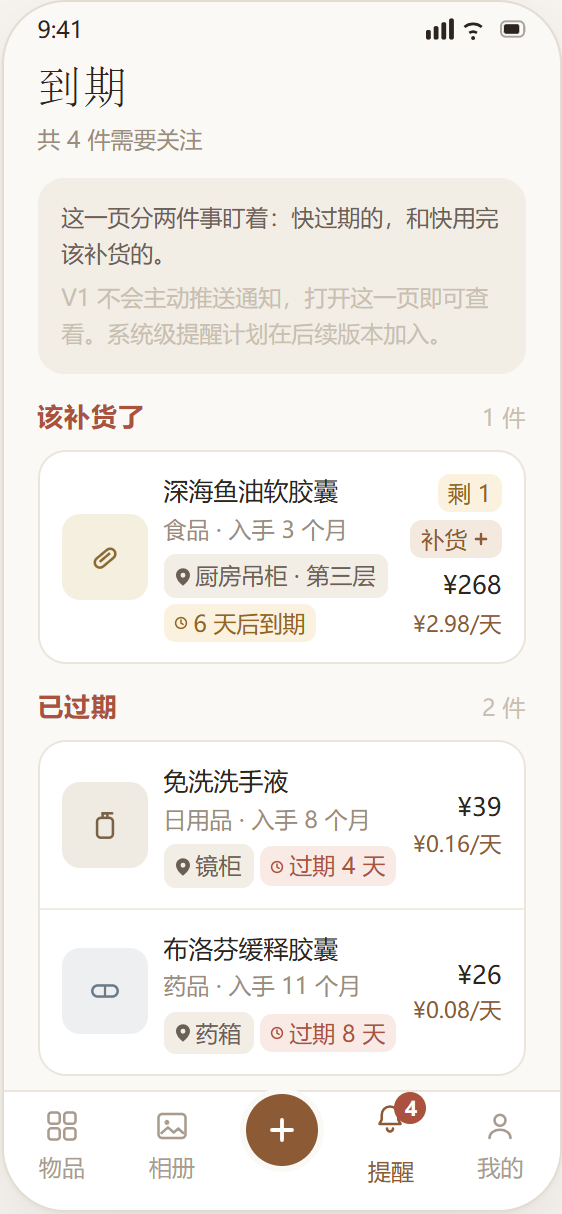
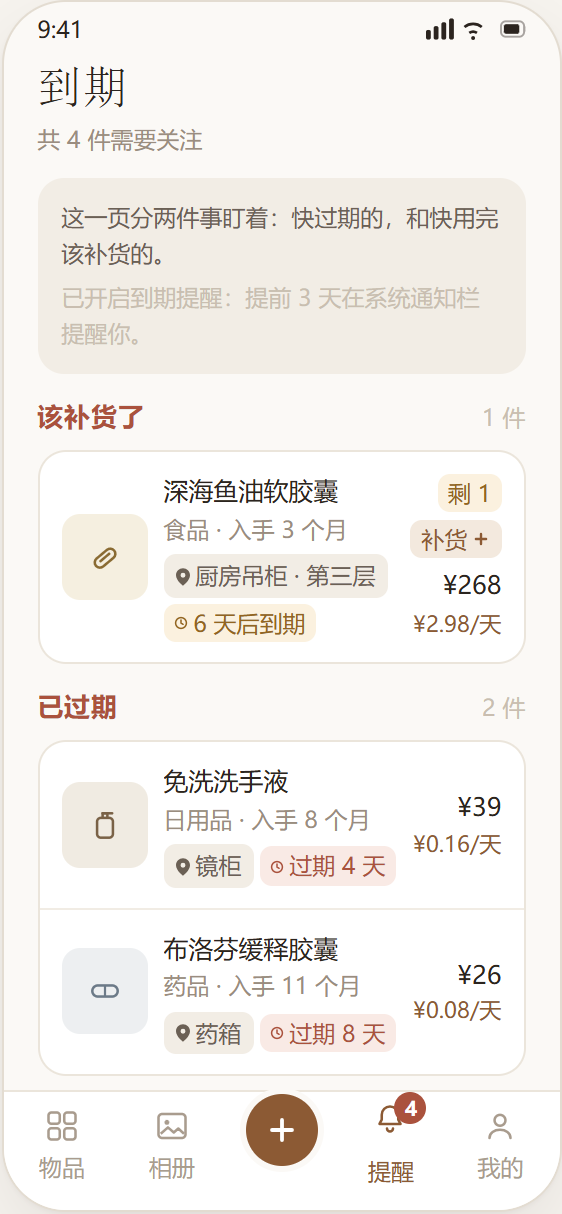
docs(screens): 界面稿补到 19 屏（录入页两枚入口 + 我的 · 批量识图）
v2.2.0 那批发版漏提交的界面稿，这一轮补上。

- 页眉 v2.1.4 → v2.2.0，屏数 17 → 19；
- 录入页右上角补上语音与批量识图两枚按钮，并写明它们**长在页头、不长在
  表单的图片条里** —— 图片条的语义是「当前这一件配图」，批量不属任何一件；
- 新增第 18 屏「我的」、第 19 屏「批量识图」（含清单行的样式与那条
  「行内不挂整页级 ItemForm」的取舍注释）；
- 03-compose / 07-expiry 两张截图随界面变动重出，另补 18 / 19 两张。

未改任何 App 代码，纯文档。

Changed region(s): [[0.0907, 0.2133, 0.8772, 0.3048]]

diff --git a/docs/screens.html b/docs/screens.html
@@ -107,6 +107,22 @@ p.small{font-size:15px;color:var(--ink2)}
 /* 行尾那一列：胶囊在上、价格与日均成本仍在下，价格一个像素都没挪 */
 .ph .tailR{display:flex;flex-direction:column;align-items:flex-end;gap:2px;flex:0 0 auto}
 /* 「补货 +」小钮：**只在到期页那一组出现**，首页列表行上没有它 */
+/* 19 屏「批量识图」的清单行：勾选 + 缩略图 + 名称/分类·位置/状态 + 两个行内动作。
+   ★ 行内**不挂整页级 ItemForm** —— 一行即一屏高，清单就做不到「一屏扫过 N 条」，
+   而且清单会随进度重渲染重挂行、把用户刚改的名字冲回识别初稿（与 StockSheet 同一条教训）。
+   逐条要深改的走「详细编辑」跳独立页。 */
+.ph .br{display:flex;gap:8px;padding:8px 11px;align-items:flex-start;border-bottom:0.5px solid #F1ECE4}
+.ph .br:last-child{border-bottom:0}
+.ph .br .ck{flex:0 0 auto;margin-top:1px}
+.ph .br .bt{width:38px;height:38px;border-radius:9px;flex:0 0 auto;background:#F5EFE0;display:flex;align-items:center;justify-content:center}
+.ph .br .bb{flex:1;min-width:0}
+.ph .br .bn{font-weight:500;font-size:12.5px;white-space:nowrap;overflow:hidden;text-overflow:ellipsis}
+/* ★ 修饰类名别叫 .ph —— 那是手机框本身的选择器，撞上就是把这一行撑成整屏高（本项目已踩） */
+.ph .br .bn.empty{color:#C9BEB0;font-weight:400}
+.ph .br .bm{margin-top:1px;color:#9A8D80;white-space:nowrap;overflow:hidden;text-overflow:ellipsis}
+.ph .br .bs{margin-top:2px;font-size:10.5px;color:#9A8D80;display:flex;align-items:center;gap:6px}
+.ph .br .ba{display:flex;flex-direction:column;gap:7px;flex:0 0 auto;padding-top:3px}
+.ph .bchip{display:inline-flex;align-items:center;background:#F2EDE5;border-radius:8px;padding:4px 9px;color:#6B6055}
 .ph .rst{display:inline-flex;align-items:center;gap:2px;background:var(--brand-bg);border-radius:6px;padding:1px 6px;color:var(--brand)}
 /* 底部快捷面板（Modal 滑出）：遮罩压住整屏，面板贴底 */
 .ph .scrim{position:absolute;left:0;right:0;top:0;bottom:0;background:rgba(43,36,31,.42)}
@@ -144,11 +160,11 @@ footer{margin-top:80px;padding-top:28px;border-top:1px solid var(--line);font-fa
 <div class="wrap">
 
 <header class="cover">
-  <div class="eyebrow">收纳柜 App &middot; 界面设计 &middot; v2.1.4</div>
+  <div class="eyebrow">收纳柜 App &middot; 界面设计 &middot; v2.2.0</div>
   <h1>格物</h1>
   <p class="lede">东西放在哪，你记得，它也记得。一套以「位置」为骨架、以「持有成本」为情绪回报的本地收纳记录工具。</p>
   <div class="meta">
-    <span>17 屏</span>
+    <span>19 屏</span>
     <span>六套浅色 + 系统深色自动接管</span>
     <span>暖棕纸感 &middot; 衬线叙述</span>
     <span>Android &middot; 纯本地</span>
@@ -181,14 +197,14 @@ footer{margin-top:80px;padding-top:28px;border-top:1px solid var(--line);font-fa
       <tr><td>关键数字</td><td><span class="t-num">&#165;24.4</span></td><td class="spec">无衬线 30 / 500 &middot; 等宽</td></tr>
     </tbody>
   </table>
-  <p class="small" style="margin-top:14px">上表是 App 里的<b>真实</b>字号（对应 <code>Type</code> 令牌表）。下面十五屏的手机稿框固定 280px 宽，而真机常见 393dp，所以屏内文字按约 0.8 倍收细画 —— 直接用真字号，品名会在更窄的框里折成两行。两边不一致时，以这张表为准。</p>
+  <p class="small" style="margin-top:14px">上表是 App 里的<b>真实</b>字号（对应 <code>Type</code> 令牌表）。下面这些手机稿框固定 280px 宽，而真机常见 393dp，所以屏内文字按约 0.8 倍收细画 —— 直接用真字号，品名会在更窄的框里折成两行。两边不一致时，以这张表为准。</p>
 </section>
 
 <section>
   <div class="sec-head">
     <span class="sec-num">02</span>
     <h2>界面</h2>
-    <span class="note">十七屏 &middot; 前十屏按使用动线排列，后七屏是库存、AI 与统计功能的新界面</span>
+    <span class="note">十九屏 &middot; 前十屏按使用动线排列，后九屏是库存、AI、统计、提醒与批量录入的新界面</span>
   </div>
 
   <div class="screens">
@@ -343,9 +359,18 @@ footer{margin-top:80px;padding-top:28px;border-top:1px solid var(--line);font-fa
     <figure class="fig" data-slug="compose">
       <div class="shot"><div class="ph">
         <div class="sb"><span style="font-weight:500">9:41</span><svg width="50" height="11" viewBox="0 0 52 11" fill="none"><rect x="0" y="6" width="2.5" height="5" rx="1" fill="#2B241F"/><rect x="4" y="4" width="2.5" height="7" rx="1" fill="#2B241F"/><rect x="8" y="2" width="2.5" height="9" rx="1" fill="#2B241F"/><rect x="12" y="0" width="2.5" height="11" rx="1" fill="#2B241F"/><path d="M20 4.5a7 7 0 0 1 9 0" stroke="#2B241F" stroke-width="1.4" fill="none"/><path d="M22.5 7.5a3.5 3.5 0 0 1 4 0" stroke="#2B241F" stroke-width="1.4" fill="none"/><circle cx="24.5" cy="10.2" r="1" fill="#2B241F"/><rect x="39" y="1.5" width="12" height="8" rx="2.5" stroke="#2B241F" stroke-opacity=".4" fill="none"/><rect x="40.5" y="3" width="8" height="5" rx="1.2" fill="#2B241F"/><rect x="51.8" y="4" width="1.4" height="3" rx=".7" fill="#2B241F" fill-opacity=".4"/></svg></div>
-        <div style="padding:2px 17px 0;flex:0 0 auto">
-          <div class="hd">录入</div>
-          <div style="color:#9A8D80;margin-top:3px">每件东西只敲一个名字就能存</div>
+        <!-- ★ 右上角这两枚是 v2.2.0 加进来的：语音（说一句录一件）与批量识图（选一堆录一堆）。
+             它们长在页头、不长在表单的图片条里 —— 前者的语义是「当前这一件配图」，
+             批量不属任何一件。判据与语音同两道门：支持者档 + AI 总开关。 -->
+        <div style="padding:2px 17px 0;flex:0 0 auto;display:flex;align-items:flex-start;justify-content:space-between">
+          <div>
+            <div class="hd">录入</div>
+            <div style="color:#9A8D80;margin-top:3px">每件东西只敲一个名字就能存</div>
+          </div>
+          <div style="display:flex;gap:7px;padding-top:1px">
+            <div style="width:26px;height:26px;border-radius:9px;border:0.5px solid #EBE5DB;background:#fff;display:flex;align-items:center;justify-content:center"><svg width="14" height="14" viewBox="0 0 24 24" fill="none"><rect x="9" y="2.5" width="6" height="11" rx="3" stroke="#8C5A34" stroke-width="1.7"/><path d="M5.5 11.5a6.5 6.5 0 0 0 13 0M12 18v3.5" stroke="#8C5A34" stroke-width="1.7" stroke-linecap="round"/></svg></div>
+            <div style="width:26px;height:26px;border-radius:9px;border:0.5px solid #EBE5DB;background:#fff;display:flex;align-items:center;justify-content:center"><svg width="14" height="14" viewBox="0 0 24 24" fill="none"><path d="M12 3.2l8.8 4.6-8.8 4.6-8.8-4.6z" stroke="#8C5A34" stroke-width="1.7" stroke-linejoin="round"/><path d="M3.4 12.5l8.6 4.5 8.6-4.5M3.4 16.8l8.6 4.5 8.6-4.5" stroke="#8C5A34" stroke-width="1.6" stroke-linejoin="round"/></svg></div>
+          </div>
         </div>
         <div style="margin:11px 17px 0;flex:0 0 auto">
           <div style="color:#9A8D80;margin-bottom:4px">照片（0）</div>
@@ -599,11 +624,12 @@ footer{margin-top:80px;padding-top:28px;border-top:1px solid var(--line);font-fa
           <div class="hd">到期</div>
           <div style="color:#9A8D80;margin-top:3px">共 4 件需要关注</div>
         </div>
-        <!-- 顶部这条浅底说明卡现在说两件事：这一页盯什么、以及 V1 不做推送。
-             后者必须在（不写清楚，用户会以为提醒坏了） -->
+        <!-- 顶部这条浅底说明卡现在说两件事：这一页盯什么、以及系统提醒此刻是开是关。
+             ★ 第二句必须**跟着开关走**（四态各说一句）——
+             还写着「计划在后续版本加入」就是骗人（v2.2.0 已上）。 -->
         <div style="margin:11px 17px 0;background:#F2EDE5;border-radius:13px;padding:11px 12px;flex:0 0 auto">
           <div style="color:#6B6055;line-height:18px">这一页分两件事盯着：快过期的，和快用完该补货的。</div>
-          <div style="color:#C9BEB0;line-height:18px;margin-top:4px">V1 不会主动推送通知，打开这一页即可查看。系统级提醒计划在后续版本加入。</div>
+          <div style="color:#C9BEB0;line-height:18px;margin-top:4px">已开启到期提醒：提前 3 天在系统通知栏提醒你。</div>
         </div>
 
         <!-- ★ 库存那一组排在最前：「能补货」是可以此刻顺手补一件的，比「还有二十天到期」紧急。
@@ -743,7 +769,7 @@ footer{margin-top:80px;padding-top:28px;border-top:1px solid var(--line);font-fa
           <div class="tb on"><svg width="18" height="18" viewBox="0 0 24 24" fill="none"><circle cx="12" cy="8.2" r="3.6" stroke="#8C5A34" stroke-width="1.7"/><path d="M5 20c0-3.5 3.2-5.5 7-5.5s7 2 7 5.5" stroke="#8C5A34" stroke-width="1.7" stroke-linecap="round"/></svg><span>我的</span></div>
         </div>
       </div></div>
-      <figcaption><div class="no">08</div><div class="nm">我的 &middot; 数据与备份</div><div class="ds">备份状态置顶、单独用品牌浅底，按钮占满整行 —— 纯本地方案里这是唯一的救命绳，混进设置行就会被当成一条普通设置。四个出口（生成备份包 / 导出 CSV 清单 / 导入备份 / 清理本地备份包）收在一组，「整理」放柜子与格位、分类管理、封面图源、回收站四条 —— 位置和分类是同一类事，得挨着。<b>自动备份的状态刻意单独一行、不并进上面那张卡</b>：手动那份的包离开了这台手机才算防丢，自动那份只是本机缓存里的回滚副本，两者混在一起，用户会把「已经自动备过了」当成安全。清理入口只在本机确实有包时出现，新装用户看到一行「暂无」只是噪声。这屏画的是首屏，再往下还有「外观」（主题入口 + 五枚色点）与「关于」两组，主题弹层见 09。</div></figcaption>
+      <figcaption><div class="no">08</div><div class="nm">我的 &middot; 数据与备份</div><div class="ds">备份状态置顶、单独用品牌浅底，按钮占满整行 —— 纯本地方案里这是唯一的救命绳，混进设置行就会被当成一条普通设置。四个出口（生成备份包 / 导出 CSV 清单 / 导入备份 / 清理本地备份包）收在一组，「整理」放柜子与格位、分类管理、封面图源、回收站四条 —— 位置和分类是同一类事，得挨着。<b>自动备份的状态刻意单独一行、不并进上面那张卡</b>：手动那份的包离开了这台手机才算防丢，自动那份只是本机缓存里的回滚副本，两者混在一起，用户会把「已经自动备过了」当成安全。清理入口只在本机确实有包时出现，新装用户看到一行「暂无」只是噪声。这屏画的是首屏，再往下还有「提醒」（见 18 屏）、「外观」（主题入口 + 七枚色点）与「关于」三组，主题弹层见 09。</div></figcaption>
     </figure>
 
     <!-- 09 -->
@@ -1301,6 +1327,175 @@ footer{margin-top:80px;padding-top:28px;border-top:1px solid var(--line);font-fa
       <figcaption><div class="no">17</div><div class="nm">录入 &middot; 识物跑完之后</div><div class="ds">拍一张包装，回来看到的就是这一屏：名称、分类、价格、过期时间都已经填好，行尾挂着一枚「AI」标。<b>保存前你把关就行</b> —— 三十秒的敲字变成三秒。<br>★ <b>识物不另开一页。</b>它与语音走的是同一条路：结果回填「手动录入那张表」（见 15 屏）。这是刻意的 —— 另画一页就要在两边各答一遍「识物能填哪些字段」，然后必然有一边答歪；回填同一张表，表单加字段时两条路自动跟上。<br>「AI」标是<b>可改的</b>：用户一动某一行，那一行的标就摘掉 —— 标的意思是「这是机器填的、还没经过你」，不是「这一行属于 AI」。过期时间那行挂的是中性标「按分类默认」而不是 AI 标：它不是模型看出来的，是按分类的保质期规则算的。<b>哪一项是谁填的，界面照实说。</b><br>照片那一格是识别用的那张原图（已落进沙盒）；「添加」仍只走本机相册。旁边那行小字是唯一会被追问的事：<b>上传的只是长边 ≤1024px、JPEG 质量 0.8 的压缩副本</b>，原图与物品数据不出手机。<br>底部那句「识别只是预填，保存前你说了算」不能省 —— 上一版没有它，用户以为点了识物就直接入库了。提示的位置也比措辞重要：上一版把「缺 Key / 没开开关」的提示放在表单最底部，而识物按钮在页面顶部，<b>提示一直都在、只是没人会滚到底去看见它</b>，观感就是「点了没反应」。</div></figcaption>
     </figure>
 
+    <!-- 18 -->
+    <figure class="fig" data-slug="mine-notify">
+      <div class="shot"><div class="ph">
+        <div class="sb"><span style="font-weight:500">9:41</span><svg width="50" height="11" viewBox="0 0 52 11" fill="none"><rect x="0" y="6" width="2.5" height="5" rx="1" fill="#2B241F"/><rect x="4" y="4" width="2.5" height="7" rx="1" fill="#2B241F"/><rect x="8" y="2" width="2.5" height="9" rx="1" fill="#2B241F"/><rect x="12" y="0" width="2.5" height="11" rx="1" fill="#2B241F"/><path d="M20 4.5a7 7 0 0 1 9 0" stroke="#2B241F" stroke-width="1.4" fill="none"/><path d="M22.5 7.5a3.5 3.5 0 0 1 4 0" stroke="#2B241F" stroke-width="1.4" fill="none"/><circle cx="24.5" cy="10.2" r="1" fill="#2B241F"/><rect x="39" y="1.5" width="12" height="8" rx="2.5" stroke="#2B241F" stroke-opacity=".4" fill="none"/><rect x="40.5" y="3" width="8" height="5" rx="1.2" fill="#2B241F"/><rect x="51.8" y="4" width="1.4" height="3" rx=".7" fill="#2B241F" fill-opacity=".4"/></svg></div>
+        <div style="padding:2px 17px 0;flex:0 0 auto">
+          <div class="hd">我的</div>
+          <div style="color:#9A8D80;margin-top:3px">数据都在这台手机里，请留意备份</div>
+        </div>
+
+        <!-- 提醒：v2.2.0 新加的独立一张卡，不并进「整理」——
+             它是同一件事的几个旋钮（要不要提醒 / 提前几天 / 要不要角标数字 / 通不通），
+             混进「整理」会让那张卡变成「什么都有一点」的抽屉。
+             ★ 开关画的是实现里的真色：ON 时轨道是品牌浅底、滑块是品牌色（不是常见的一整条品牌实底） -->
+        <div style="margin:11px 17px 0;flex:0 0 auto">
+          <div style="color:#9A8D80;margin-bottom:4px">提醒</div>
+          <div style="background:#fff;border:0.5px solid #EBE5DB;border-radius:14px;overflow:hidden">
+            <div class="fr" style="padding:11px">
+              <div style="flex:1;min-width:0">
+                <div style="color:#6B6055">到期提醒</div>
+                <div style="color:#C9BEB0;margin-top:2px;line-height:16px">已排 3 条 &middot; 最近一条 09-27</div>
+              </div>
+              <div style="width:36px;height:21px;border-radius:11px;background:#F3E9DE;flex:0 0 auto;display:flex;align-items:center;justify-content:flex-end;padding:2px"><div style="width:17px;height:17px;border-radius:50%;background:#8C5A34"></div></div>
+            </div>
+            <!-- 角标是**独立**的一个开关，与通知开关不联动，也不藏在它开着的前提下：
+                 角标答的是「有几件事要去看」，通知答的是「到点提醒你」。 -->
+            <div class="fr" style="padding:11px">
+              <div style="flex:1;min-width:0">
+                <div style="color:#6B6055">角标数字</div>
+                <div style="color:#C9BEB0;margin-top:2px;line-height:16px">「提醒」标签上显示待办件数；关掉只是不显示数字，点进去照样能看</div>
+              </div>
+              <div style="width:36px;height:21px;border-radius:11px;background:#F3E9DE;flex:0 0 auto;display:flex;align-items:center;justify-content:flex-end;padding:2px"><div style="width:17px;height:17px;border-radius:50%;background:#8C5A34"></div></div>
+            </div>
+            <!-- 「提前几天」只在**真的会响**时才给：关着摆一排按钮，用户会以为点了就生效。
+                 自己填天数的入口放在标签行右端，不跟四枚 chip 抢那一行 ——
+                 五个控件并排会在 320dp 屏或放大字体下顶出卡片，而挤出去不报错。 -->
+            <div class="fr" style="padding:11px;display:block">
+              <div style="display:flex;align-items:baseline;justify-content:space-between">
+                <span style="color:#6B6055">提前几天提醒</span>
+                <span style="color:#8C5A34">自定义</span>
+              </div>
+              <div style="display:flex;background:#F2EDE5;border-radius:10px;padding:2px;margin-top:6px">
+                <span style="flex:1;text-align:center;padding:5px 0;border-radius:8px;color:#9A8D80">当天</span>
+                <span style="flex:1;text-align:center;padding:5px 0;border-radius:8px;color:#9A8D80">1 天</span>
+                <span style="flex:1;text-align:center;padding:5px 0;border-radius:8px;background:#fff;font-weight:500">3 天</span>
+                <span style="flex:1;text-align:center;padding:5px 0;border-radius:8px;color:#9A8D80">7 天</span>
+              </div>
+            </div>
+            <div class="fr" style="padding:11px">
+              <span style="color:#6B6055">试发一条</span>
+              <span style="color:#9A8D80;font-weight:500">看看通不通 &nbsp;&#8250;</span>
+            </div>
+          </div>
+          <div style="color:#C9BEB0;margin:5px 0 0 5px;line-height:16px">提醒时刻 =（到期日 &minus; 提前几天）当天上午 9:00</div>
+        </div>
+
+        <!-- 外观：这一屏画到主题入口为止，弹层见 09 -->
+        <div style="margin:11px 17px 0;flex:0 0 auto">
+          <div style="color:#9A8D80;margin-bottom:4px">外观</div>
+          <div style="background:#fff;border:0.5px solid #EBE5DB;border-radius:14px;overflow:hidden;padding-bottom:9px">
+            <div class="fr" style="padding:11px"><span style="color:#6B6055">外观主题</span><span style="color:#8C5A34;font-weight:500">素笺 &nbsp;&#8250;</span></div>
+            <div style="display:flex;justify-content:space-between;align-items:center;padding:2px 12px 0">
+              <span style="width:24px;height:24px;border-radius:50%;border:1.5px solid #2B241F;display:flex;align-items:center;justify-content:center;padding:3px;flex:0 0 auto"><span style="width:100%;height:100%;border-radius:50%;background:#8C5A34;display:block"></span></span>
+              <span style="width:24px;height:24px;border-radius:50%;border:1.5px solid transparent;display:flex;align-items:center;justify-content:center;padding:3px;flex:0 0 auto"><span style="width:100%;height:100%;border-radius:50%;background:#2C5282;display:block"></span></span>
+              <span style="width:24px;height:24px;border-radius:50%;border:1.5px solid transparent;display:flex;align-items:center;justify-content:center;padding:3px;flex:0 0 auto"><span style="width:100%;height:100%;border-radius:50%;background:#35605A;display:block"></span></span>
+              <span style="width:24px;height:24px;border-radius:50%;border:1.5px solid transparent;display:flex;align-items:center;justify-content:center;padding:3px;flex:0 0 auto"><span style="width:100%;height:100%;border-radius:50%;background:#A8372C;display:block"></span></span>
+              <span style="width:24px;height:24px;border-radius:50%;border:1.5px solid transparent;display:flex;align-items:center;justify-content:center;padding:3px;flex:0 0 auto"><span style="width:100%;height:100%;border-radius:50%;background:#6A4C86;display:block"></span></span>
+              <span style="width:24px;height:24px;border-radius:50%;border:1.5px solid transparent;display:flex;align-items:center;justify-content:center;padding:3px;flex:0 0 auto"><span style="width:100%;height:100%;border-radius:50%;background:#A53A63;display:block"></span></span>
+              <span style="width:24px;height:24px;border-radius:50%;border:1.5px solid transparent;display:flex;align-items:center;justify-content:center;padding:3px;flex:0 0 auto"><span style="width:100%;height:100%;border-radius:50%;background:#C9985C;display:block"></span></span>
+            </div>
+          </div>
+        </div>
+
+        <div class="tabbar">
+          <div class="tb"><svg width="18" height="18" viewBox="0 0 24 24" fill="none"><rect x="3" y="3" width="7.5" height="7.5" rx="2" stroke="#A99C8E" stroke-width="1.7"/><rect x="13.5" y="3" width="7.5" height="7.5" rx="2" stroke="#A99C8E" stroke-width="1.7"/><rect x="3" y="13.5" width="7.5" height="7.5" rx="2" stroke="#A99C8E" stroke-width="1.7"/><rect x="13.5" y="13.5" width="7.5" height="7.5" rx="2" stroke="#A99C8E" stroke-width="1.7"/></svg><span>物品</span></div>
+          <div class="tb"><svg width="18" height="18" viewBox="0 0 24 24" fill="none"><rect x="3" y="4" width="18" height="16" rx="2.5" stroke="#A99C8E" stroke-width="1.7"/><circle cx="8.6" cy="9.6" r="1.6" fill="#A99C8E"/><path d="M4.5 17.2l4.8-4.3 3.9 3.4 3-2.6 3.8 3.5" stroke="#A99C8E" stroke-width="1.7" stroke-linejoin="round"/></svg><span>相册</span></div>
+          <div style="flex:1;display:flex;justify-content:center"><div style="width:42px;height:42px;border-radius:50%;background:#8C5A34;display:flex;align-items:center;justify-content:center;margin-top:-15px;border:3px solid #FBF9F6"><svg width="16" height="16" viewBox="0 0 16 16"><path d="M8 3v10M3 8h10" stroke="#fff" stroke-width="1.9" stroke-linecap="round"/></svg></div></div>
+          <div class="tb"><div style="position:relative"><svg width="18" height="18" viewBox="0 0 24 24" fill="none"><path d="M12 3a5.5 5.5 0 0 0-5.5 5.5v3.2L5 14.6h14l-1.5-2.9V8.5A5.5 5.5 0 0 0 12 3z" stroke="#A99C8E" stroke-width="1.7" stroke-linejoin="round"/><path d="M10 17.6a2 2 0 0 0 4 0" stroke="#A99C8E" stroke-width="1.7" stroke-linecap="round"/></svg><div style="position:absolute;top:-5px;right:-9px;min-width:16px;height:16px;border-radius:8px;padding:0 4px;background:#AA523D;color:#fff;font-size:10px;font-weight:600;display:flex;align-items:center;justify-content:center">4</div></div><span>提醒</span></div>
+          <div class="tb on"><svg width="18" height="18" viewBox="0 0 24 24" fill="none"><circle cx="12" cy="8.2" r="3.6" stroke="#8C5A34" stroke-width="1.7"/><path d="M5 20c0-3.5 3.2-5.5 7-5.5s7 2 7 5.5" stroke="#8C5A34" stroke-width="1.7" stroke-linecap="round"/></svg><span>我的</span></div>
+        </div>
+      </div></div>
+      <figcaption><div class="no">18</div><div class="nm">我的 &middot; 提醒（v2.2.0 新增）</div><div class="ds">系统级到期提醒的<b>唯一入口</b>，「我的」页往下第一张卡。它单独一张、不并进上面的「整理」：四个旋钮讲的是同一件事（要不要提醒 / 提前几天 / 要不要角标数字 / 通不通），混进那张卡会让它变成「什么都有一点」的抽屉。<br><b>默认关</b> —— 打开它要弹系统的通知权限框，那是用户的决定，不替他做。<br>★ <b>角标是独立的一个开关，与通知开关不联动</b>，也没藏在「到期提醒」开着的前提下：角标答的是「有几件事要去看」，通知答的是「到点提醒你」，关掉通知的人照样可能想看角标，反过来也一样。<br>★ <b>「提前几天」只在真的会响时才给</b>（关着或没权限时不摆这一排）—— 摆着而点了不会响，等于假的。自己填天数的入口放在标签行右端、不跟四枚 chip 抢同一行：五个控件并排会在 320dp 屏或放大字体下顶出卡片，<b>而挤出去不报错</b>。<br>「到期提醒」下面那行说明<b>四态各说一句</b>：「系统里没给权限」与「自己关掉了」必须分开 —— 前者要去系统设置里开，后者在这儿拨一下就行，写成同一句用户会在 App 里白折腾。开着时如实报「已排 N 条」，这个数随数据变、用户看得见它在动，就不会怀疑「开了到底有没有用」。<br>最下面「试发一条」不只是给用户试的，它是<b>唯一不用插线就能做的诊断</b>：立刻那一条走通知通道（不经过闹钟），二十秒后那一条走系统闹钟 —— 两条到没到，就把「闹钟被系统按住」与「通知本身被挡」一刀切开。<br>提醒时刻 =（到期日 &minus; 提前几天）当天上午 9:00。这一屏画到「外观」的主题入口为止，主题弹层见 09；再往下还有「关于」。</div></figcaption>
+    </figure>
+
+    <!-- 19 -->
+    <figure class="fig" data-slug="batch">
+      <div class="shot"><div class="ph">
+        <div class="sb"><span style="font-weight:500">9:41</span><svg width="50" height="11" viewBox="0 0 52 11" fill="none"><rect x="0" y="6" width="2.5" height="5" rx="1" fill="#2B241F"/><rect x="4" y="4" width="2.5" height="7" rx="1" fill="#2B241F"/><rect x="8" y="2" width="2.5" height="9" rx="1" fill="#2B241F"/><rect x="12" y="0" width="2.5" height="11" rx="1" fill="#2B241F"/><path d="M20 4.5a7 7 0 0 1 9 0" stroke="#2B241F" stroke-width="1.4" fill="none"/><path d="M22.5 7.5a3.5 3.5 0 0 1 4 0" stroke="#2B241F" stroke-width="1.4" fill="none"/><circle cx="24.5" cy="10.2" r="1" fill="#2B241F"/><rect x="39" y="1.5" width="12" height="8" rx="2.5" stroke="#2B241F" stroke-opacity=".4" fill="none"/><rect x="40.5" y="3" width="8" height="5" rx="1.2" fill="#2B241F"/><rect x="51.8" y="4" width="1.4" height="3" rx=".7" fill="#2B241F" fill-opacity=".4"/></svg></div>
+        <div style="padding:2px 17px 0;flex:0 0 auto;display:flex;align-items:flex-start;justify-content:space-between">
+          <div>
+            <div class="hd">批量识图</div>
+            <div style="color:#9A8D80;margin-top:3px">识别中 3/9 &middot; 别退出这一页</div>
+          </div>
+          <!-- 跑着时是「停止」，跑完变「关闭」——同一个位置，两种语义 -->
+          <div style="width:26px;height:26px;border-radius:9px;border:0.5px solid #EBE5DB;background:#fff;display:flex;align-items:center;justify-content:center;margin-top:1px"><svg width="14" height="14" viewBox="0 0 24 24" fill="none"><circle cx="12" cy="12" r="9" stroke="#8C5A34" stroke-width="1.7"/><rect x="9.2" y="9.2" width="5.6" height="5.6" rx="1.3" fill="#8C5A34"/></svg></div>
+        </div>
+        <!-- 两个统一快选：同一批东西多半塞同一个柜子。
+             它们记在 state 里而不是「刷一遍」——识别是流式的，第 3 张还在跑时设的值，
+             第 4 张要立刻用上（而且只套之后那些条，不回头冲掉用户单独改过的） -->
+        <div style="display:flex;gap:7px;padding:9px 17px 0;flex:0 0 auto">
+          <span class="bchip">统一分类</span><span class="bchip">统一位置</span>
+        </div>
+        <div style="margin:9px 17px 0;background:#fff;border:0.5px solid #EBE5DB;border-radius:14px;overflow:hidden;flex:0 0 auto">
+          <div class="br">
+            <div class="ck"><svg width="16" height="16" viewBox="0 0 16 16"><circle cx="8" cy="8" r="6.4" fill="#8C5A34"/><path d="M5.2 8.2l2 2 3.6-4.1" stroke="#fff" stroke-width="1.5" stroke-linecap="round" stroke-linejoin="round"/></svg></div>
+            <div class="bt"><svg width="18" height="18" viewBox="0 0 24 24" fill="none"><rect x="4.5" y="9.5" width="15" height="6.5" rx="3.25" transform="rotate(-40 12 12.7)" stroke="#8A6B33" stroke-width="1.6"/><path d="M9.2 14.6l5.4-4.6" stroke="#8A6B33" stroke-width="1.6" stroke-linecap="round"/></svg></div>
+            <div class="bb">
+              <div class="bn">深海鱼油软胶囊</div>
+              <div class="bm"><span style="color:#8C5A34">食品</span> &middot; <span style="color:#8C5A34">厨房吊柜 &middot; 第三层</span></div>
+              <div class="bs">AI 填了 5 项，核对一下</div>
+            </div>
+            <div class="ba"><svg width="13" height="13" viewBox="0 0 24 24" fill="none"><path d="M4 20h4l10-10-4-4L4 16v4z" stroke="#9A8D80" stroke-width="1.7" stroke-linejoin="round"/><path d="M13.5 6.5l4 4" stroke="#9A8D80" stroke-width="1.7"/></svg><svg width="13" height="13" viewBox="0 0 24 24" fill="none"><path d="M5 7h14M9.5 7V4.8h5V7M7.2 7l.9 13h7.8l.9-13" stroke="#9A8D80" stroke-width="1.7" stroke-linecap="round" stroke-linejoin="round"/></svg></div>
+          </div>
+          <div class="br">
+            <div class="ck"><svg width="16" height="16" viewBox="0 0 16 16"><circle cx="8" cy="8" r="6.4" fill="#8C5A34"/><path d="M5.2 8.2l2 2 3.6-4.1" stroke="#fff" stroke-width="1.5" stroke-linecap="round" stroke-linejoin="round"/></svg></div>
+            <div class="bt" style="background:#F1ECE4"><svg width="18" height="18" viewBox="0 0 24 24" fill="none"><rect x="2.8" y="4.2" width="18.4" height="15.6" rx="3" stroke="#9A8D80" stroke-width="1.6"/><circle cx="8.6" cy="9.6" r="1.5" fill="#9A8D80"/><path d="M4.6 17.4l4.6-4.1 3.7 3.2 2.9-2.5 3.6 3.4" stroke="#9A8D80" stroke-width="1.6" stroke-linejoin="round"/></svg></div>
+            <div class="bb">
+              <div class="bn">康师傅老陈醋酸辣牛肉面</div>
+              <div class="bm"><span style="color:#8C5A34">食品 &middot; 泡面</span> &middot; <span style="color:#8C5A34">厨房吊柜 &middot; 第三层</span></div>
+              <div class="bs">AI 填了 4 项，核对一下</div>
+              <!-- 同名只提示、不阻断：与单件录入同一条口径 -->
+              <div class="bs" style="color:#926521;display:block">与库里已有物品重名</div>
+            </div>
+            <div class="ba"><svg width="13" height="13" viewBox="0 0 24 24" fill="none"><path d="M4 20h4l10-10-4-4L4 16v4z" stroke="#9A8D80" stroke-width="1.7" stroke-linejoin="round"/><path d="M13.5 6.5l4 4" stroke="#9A8D80" stroke-width="1.7"/></svg><svg width="13" height="13" viewBox="0 0 24 24" fill="none"><path d="M5 7h14M9.5 7V4.8h5V7M7.2 7l.9 13h7.8l.9-13" stroke="#9A8D80" stroke-width="1.7" stroke-linecap="round" stroke-linejoin="round"/></svg></div>
+          </div>
+          <!-- 没读出字段的那一条：**照片留着、条目留着**，标一句「补个名字就能保存」。
+               丢弃它反而制造孤儿文件（照片早已落盘） -->
+          <div class="br">
+            <div class="ck"><svg width="16" height="16" viewBox="0 0 16 16"><circle cx="8" cy="8" r="6" stroke="#C9BEB0" stroke-width="1.5" fill="none"/></svg></div>
+            <div class="bt"><svg width="18" height="18" viewBox="0 0 24 24" fill="none"><rect x="2.8" y="4.2" width="18.4" height="15.6" rx="3" stroke="#9A8D80" stroke-width="1.6"/><circle cx="8.6" cy="9.6" r="1.5" fill="#9A8D80"/><path d="M4.6 17.4l4.6-4.1 3.7 3.2 2.9-2.5 3.6 3.4" stroke="#9A8D80" stroke-width="1.6" stroke-linejoin="round"/></svg></div>
+            <div class="bb">
+              <div class="bn empty">给它起个名字</div>
+              <div class="bm">未设置 &middot; 没定位置</div>
+              <div class="bs" style="color:#926521">没读出字段，补个名字就能保存 <span style="color:#8C5A34;white-space:nowrap">重试</span></div>
+            </div>
+            <div class="ba"><svg width="13" height="13" viewBox="0 0 24 24" fill="none"><path d="M4 20h4l10-10-4-4L4 16v4z" stroke="#9A8D80" stroke-width="1.7" stroke-linejoin="round"/><path d="M13.5 6.5l4 4" stroke="#9A8D80" stroke-width="1.7"/></svg><svg width="13" height="13" viewBox="0 0 24 24" fill="none"><path d="M5 7h14M9.5 7V4.8h5V7M7.2 7l.9 13h7.8l.9-13" stroke="#9A8D80" stroke-width="1.7" stroke-linecap="round" stroke-linejoin="round"/></svg></div>
+          </div>
+          <!-- 正在飞的那一条 -->
+          <div class="br">
+            <div class="ck"><svg width="16" height="16" viewBox="0 0 16 16"><circle cx="8" cy="8" r="6" stroke="#C9BEB0" stroke-width="1.5" fill="none"/></svg></div>
+            <div class="bt"><svg width="18" height="18" viewBox="0 0 24 24" fill="none"><rect x="2.8" y="4.2" width="18.4" height="15.6" rx="3" stroke="#9A8D80" stroke-width="1.6"/><circle cx="8.6" cy="9.6" r="1.5" fill="#9A8D80"/><path d="M4.6 17.4l4.6-4.1 3.7 3.2 2.9-2.5 3.6 3.4" stroke="#9A8D80" stroke-width="1.6" stroke-linejoin="round"/></svg></div>
+            <div class="bb">
+              <div class="bn empty">给它起个名字</div>
+              <div class="bm">未设置 &middot; 没定位置</div>
+              <div class="bs">识别中，请稍等</div>
+            </div>
+            <div class="ba"><svg width="13" height="13" viewBox="0 0 24 24" fill="none"><path d="M4 20h4l10-10-4-4L4 16v4z" stroke="#9A8D80" stroke-width="1.7" stroke-linejoin="round"/><path d="M13.5 6.5l4 4" stroke="#9A8D80" stroke-width="1.7"/></svg><svg width="13" height="13" viewBox="0 0 24 24" fill="none"><path d="M5 7h14M9.5 7V4.8h5V7M7.2 7l.9 13h7.8l.9-13" stroke="#9A8D80" stroke-width="1.7" stroke-linecap="round" stroke-linejoin="round"/></svg></div>
+          </div>
+          <!-- 还在队里的（严格串行：上一条没回来，这条不动） -->
+          <div class="br">
+            <div class="ck"><svg width="16" height="16" viewBox="0 0 16 16"><circle cx="8" cy="8" r="6" stroke="#C9BEB0" stroke-width="1.5" fill="none"/></svg></div>
+            <div class="bt" style="background:#F1ECE4"><svg width="18" height="18" viewBox="0 0 24 24" fill="none"><rect x="2.8" y="4.2" width="18.4" height="15.6" rx="3" stroke="#9A8D80" stroke-width="1.6"/><circle cx="8.6" cy="9.6" r="1.5" fill="#9A8D80"/><path d="M4.6 17.4l4.6-4.1 3.7 3.2 2.9-2.5 3.6 3.4" stroke="#9A8D80" stroke-width="1.6" stroke-linejoin="round"/></svg></div>
+            <div class="bb">
+              <div class="bn empty">给它起个名字</div>
+              <div class="bm">未设置 &middot; 没定位置</div>
+              <div class="bs">排队中</div>
+            </div>
+            <div class="ba"><svg width="13" height="13" viewBox="0 0 24 24" fill="none"><path d="M4 20h4l10-10-4-4L4 16v4z" stroke="#9A8D80" stroke-width="1.7" stroke-linejoin="round"/><path d="M13.5 6.5l4 4" stroke="#9A8D80" stroke-width="1.7"/></svg><svg width="13" height="13" viewBox="0 0 24 24" fill="none"><path d="M5 7h14M9.5 7V4.8h5V7M7.2 7l.9 13h7.8l.9-13" stroke="#9A8D80" stroke-width="1.7" stroke-linecap="round" stroke-linejoin="round"/></svg></div>
+          </div>
+        </div>
+        <!-- 保存：一次性入库。★ 一个事务里写完，中途失败整批回滚 ——
+             不要「一半写进去了」这种无提示的坏状态 -->
+        <div style="margin-top:auto;padding:9px 17px 16px;flex:0 0 auto">
+          <div style="text-align:center;color:#9A8D80;margin-bottom:6px">有 7 件没勾选或还没名字，不会保存。</div>
+          <div style="display:flex;align-items:center;justify-content:center;gap:6px;padding:11px;border-radius:11px;background:#8C5A34;color:#fff;font-weight:600"><svg width="14" height="14" viewBox="0 0 24 24" fill="none"><path d="M12 3.5v11M8 10.5l4 4 4-4M4 20h16" stroke="#fff" stroke-width="1.8" stroke-linecap="round" stroke-linejoin="round"/></svg>保存 2 件</div>
+        </div>
+      </div></div>
+      <figcaption><div class="no">19</div><div class="nm">批量识图 &middot; 清单核对（v2.2.0 新增）</div><div class="ds">一次选最多 <b>9 张</b>照片，一张一张认完，在清单里核对，最后<b>一次入库</b>。入口在录入页页头右上角（麦克风左边，见 03 屏），走 AI 支持者档 + AI 总开关两道门，不引入新判据。<br>★ <b>必须严格串行，不能并发。</b>免费模型同一时刻只允许 1 条并发请求，任何「并发 2~3 提速」的写法都会稳定撞 429，而用户只看到「调用太频繁」，想不到是自己并发了。所以页头副标题是进度而不是总数：<b>「识别中 3/9 · 别退出这一页」</b>，右边那枚是「停止」；停止后队列里仍 pending 的会变成一颗「继续识别 N」，接着跑。<br>★ <b>识别一张就冒一条</b>，不等全部跑完。9 张最坏可接近 9 分钟，等最后一起出结果等于让用户对着空屏发呆。<br>★ <b>没读出字段的条目不丢</b>：照片留着、条目留着，标一句「没读出字段，补个名字就能保存」，并给「重试」。判据只有「勾了 + 有名字」两条，<b>刻意不看状态</b> —— 照片早已落盘，丢弃它反而制造孤儿文件。<br>★ <b>行内只做轻量编辑</b>（名称 + 分类 / 位置），<b>不挂整页级的 ItemForm</b>：一行即一屏高，清单就再也做不到「一屏扫过 N 条」；而且清单会随进度重渲染重挂行，把用户刚改的名字冲回识别初稿。要逐条深改的点「详细编辑」跳独立一页（复用录入表单，跳页＝全新挂载，天然绕开这一条）。<br>★ 顶部「统一分类 / 统一位置」是<b>快选而不是「刷一遍」</b>：识别是流式的，第 3 张还在跑时设的值第 4 张要立刻用上，而且<b>只套之后那些条</b>，不回头冲掉用户单独改过的。同名检测只提示不阻断，与单件录入同一口径。</div></figcaption>
+    </figure>
+
 <section>
   <div class="sec-head">
     <span class="sec-num">03</span>
@@ -1320,7 +1515,7 @@ footer{margin-top:80px;padding-top:28px;border-top:1px solid var(--line);font-fa
 </section>
 
 <footer>
-  格物 &middot; 收纳柜 App &middot; 界面设计 v2.1.4 &middot; 依据《收纳柜App产品需求文档》V1 冻结范围绘制
+  格物 &middot; 收纳柜 App &middot; 界面设计 v2.2.0 &middot; 依据《收纳柜App产品需求文档》V1 冻结范围绘制
 </footer>
 
 </div>
